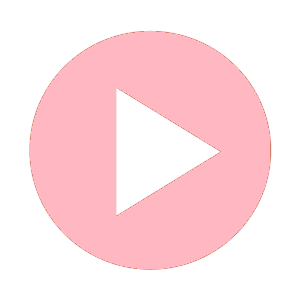
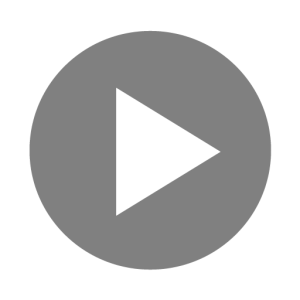
whhoops update play button color and header font

diff --git a/app/views/Feed.js b/app/views/Feed.js
@@ -114,7 +114,7 @@ class TestFeed extends Component {
 
           </Left>
           <Body>
-            <Title >Shade</Title>
+            <Title style={{fontFamily: 'Georgia-BoldItalic', fontSize: 23}}>Shade</Title>
           </Body>
           <Right />
         </Header>
